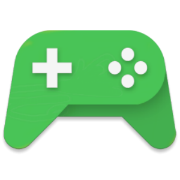
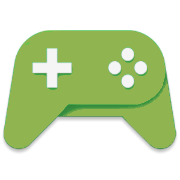
fixed some graphics and positioning

diff --git a/index.html b/index.html
@@ -100,8 +100,9 @@
 <div class="header" id="home" style="background-image: url('assets/img/sportsbarblurfaded.jpg');">
   <div class="header-content">
     <div class="container">
+
       <div class="row">
-        <div class="col-md-4 text-center" style="margin-top: 10px">
+        <div class="col-md-4 text-center">
           <h1>TVs are better through the Ourglass</h1>
           <span class="line"></span>
           <p>Free gaming, social and messaging apps so your customers always have fun and never miss what’s on TV.
@@ -109,7 +110,7 @@
           <a href="#" class="btn btn-primary">Get Started Now</a>
         </div>
         <div class="col-md-6 col-md-offset-2">
-          <div class="row" style="margin-bottom: 20px; margin-top: 10px">
+          <div class="row" style="margin-bottom: 20px">
             <div class="video embed-responsive embed-responsive-16by9">
               <video controls="true" autoplay loop class="embed-responsive-item">
                 <source src=assets/img/websiteclip053017.mp4 type=video/mp4>
@@ -330,8 +331,7 @@
 
     <div class="row flex" style="margin-bottom: 15px">
 
-      <div class="col-md-5" style="text-align: center"><img src="assets/img/headphone_icons_180.png">    </div>
-      <div class="col-md-5">
+      <div class="col-md-5 col-md-offset-1">
         <div class="panel panel-default light-panel">
           <div class="panel-heading text-left">
             <span class="text-success"></span>Listen</a>
@@ -346,15 +346,16 @@
           </div>
         </div>
       </div>
+      <div class="col-md-5 big-icon">
+        <img src="assets/img/headphone_icons_180.png" height="180" width="180"/>
+      </div>
 
 
 
     </div>
     <div class="row flex" style="margin-bottom: 15px">
-      <div class="col-md-5" style="text-align: center"><img src="assets/img/interact_icon_300.png"/>
-      </div>
 
-      <div class="col-md-5">
+      <div class="col-md-5 col-md-offset-1">
         <div class="panel panel-default light-panel">
           <div class="panel-heading text-left">
             <span class="text-success"></span>Interact
@@ -367,11 +368,14 @@
 
           </div>
         </div>
+
       </div>
-    </div>
+      <div class="col-md-5 big-icon">
+        <img src="assets/img/interact_icon-icons.png" height="180" width="180"/>
+      </div>
+
     <div class="row flex" style="margin-bottom: 15px">
-      <div class="col-md-5" style="text-align: center"><img src="assets/img/Play-Games-300.png"></div>
-      <div class="col-md-5">
+      <div class="col-md-5 col-md-offset-1">
         <div class="panel panel-default light-panel">
           <div class="panel-heading text-left">
             <span class="text-success"></span>Play</a>
@@ -382,8 +386,12 @@
           </div>
         </div>
       </div>
+      <div class="col-md-5" style="text-align: center">
+        <img src="assets/img/Play-Games-180.png" height="180" width="180"/>
+      </div>
 
     </div>
+
   </div>
 </div>
 </div>

diff --git a/assets/css/default.css b/assets/css/default.css
@@ -865,6 +865,14 @@ label.error {
 .big-icon {
     margin-top: -25px;
     text-align: center;
-    color: #9BBB59;
+    color: #8FB450;
     font-size: 150px;
+}
+
+.icon-graphics {
+    min-height: 100vh; /* These two lines are counted as one :-)       */
+
+    display: flex;
+    align-items: center;
+    margin-bottom: 15px;
 }
